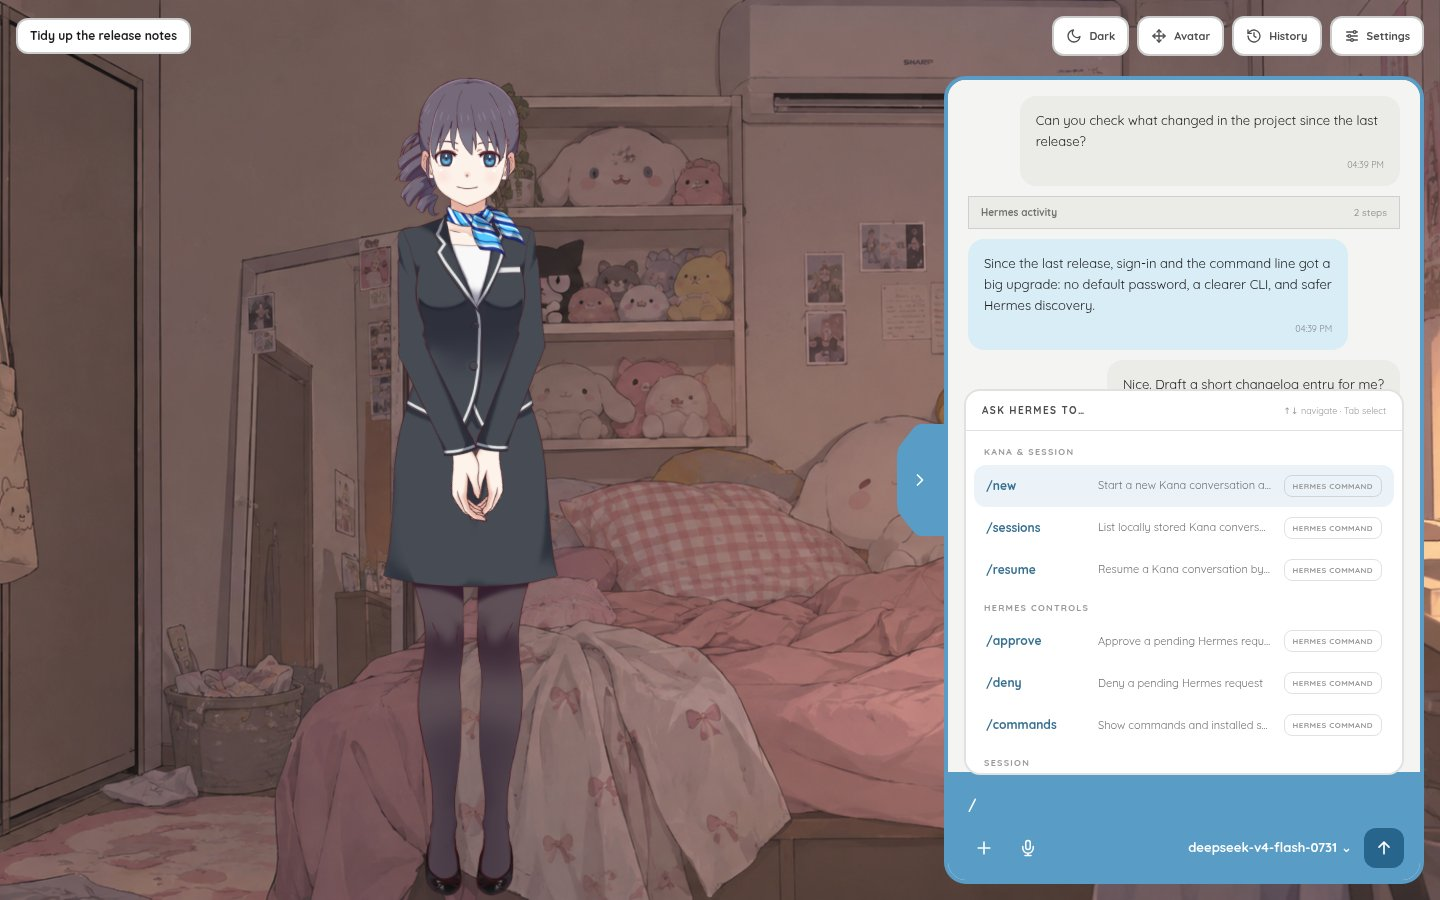
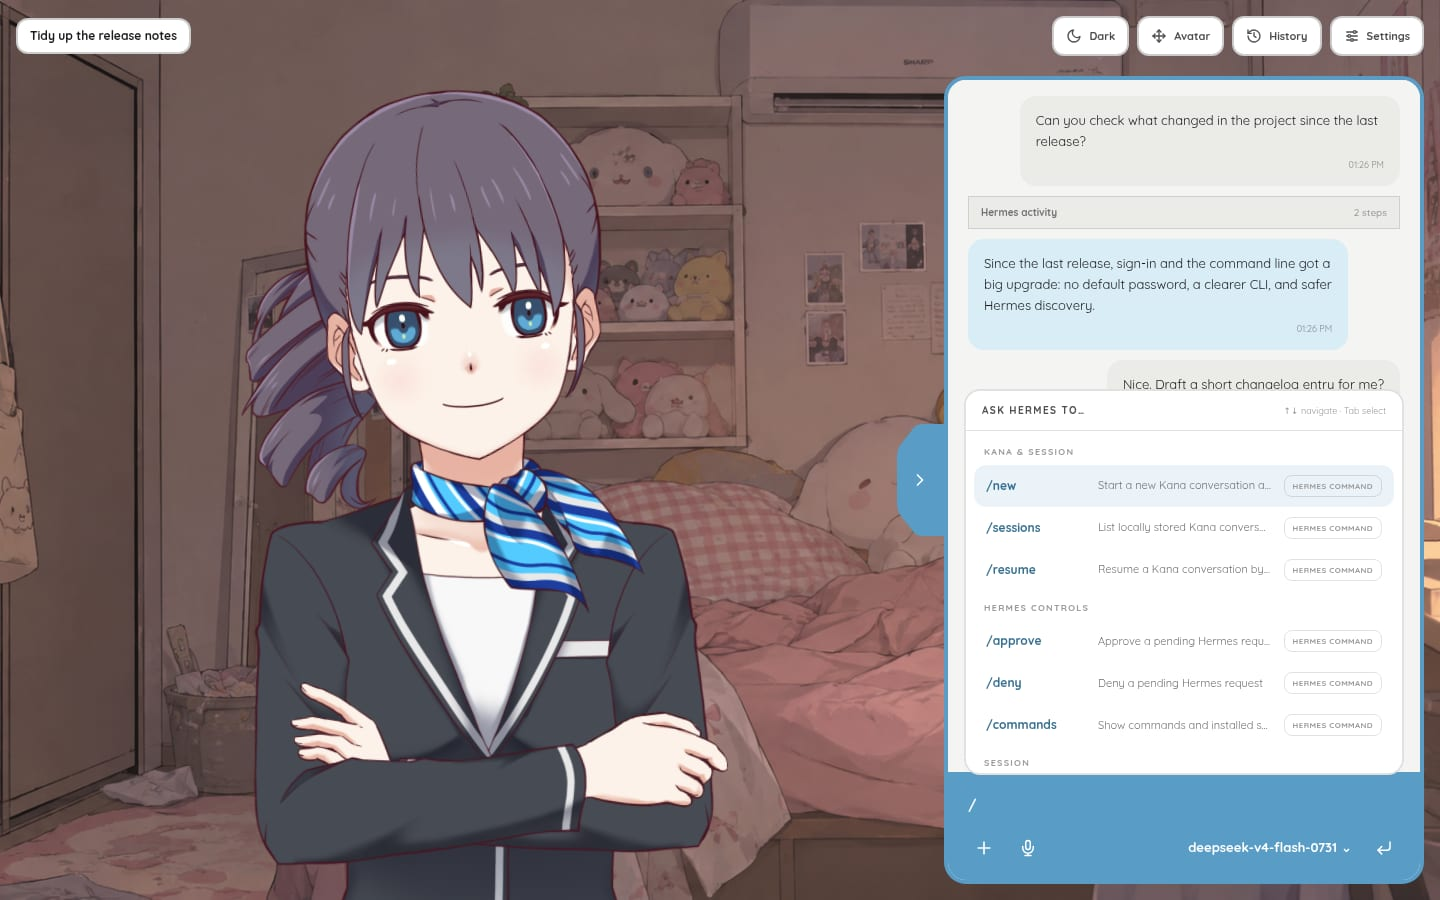
docs: refresh README and screenshots for the chat-first phone layout and model cache

Changed region(s): [[0.1562, 0.0622, 0.5, 1.0], [0.9375, 0.9022, 1.0, 0.9644]]

diff --git a/README.md b/README.md
@@ -87,11 +87,11 @@ Your data (password hash, settings, voice profiles, model cache) lives in
   </tr>
   <tr>
     <td width="50%"><img src=".github/readme/settings-avatar.png" alt="Avatar settings with stage backgrounds and the Live2D avatar library"></td>
-    <td width="50%"><img src=".github/readme/mobile.jpg" alt="Kana on a phone: the workspace and the conversation drawer"></td>
+    <td width="50%"><img src=".github/readme/mobile.jpg" alt="Kana on a phone: the chat fills the screen with Kana in a small call-style tile, next to the conversation list"></td>
   </tr>
   <tr>
     <td align="center"><sub>Avatars, stages, and per-model bindings</sub></td>
-    <td align="center"><sub>Works on phones too</sub></td>
+    <td align="center"><sub>Chat-first on phones, with Kana in a call-style tile</sub></td>
   </tr>
 </table>
 
@@ -104,6 +104,10 @@ Your data (password hash, settings, voice profiles, model cache) lives in
 - History comes from Hermes, so conversations follow you to other browsers.
 - The Hermes activity log shows which tools ran for each reply.
 - Composer with [file attachments, voice dictation, and a model picker](docs/COMPOSER.md).
+  The picker opens with the last Hermes model list at once and refreshes it in
+  the background.
+- On phones and tablets the conversation fills the screen and Kana sits in a
+  small call-style tile framed on the face.
 
 **Hermes controls**
 - The live, categorized `/` command catalog with argument completion, including
@@ -116,7 +120,8 @@ Your data (password hash, settings, voice profiles, model cache) lives in
 - Live2D avatars: the official Haru and Mao samples, any hosted `.model3.json`,
   or a model folder imported into your browser.
 - Emotions, motions, lip sync, and cursor-following gaze.
-- Stage backgrounds, including your own images, plus light and dark themes.
+- Stage backgrounds (an illustrated room, soft patterns, or your own image), plus
+  light and dark themes.
 
 **Voice**
 - Local Japanese speech with Irodori-TTS v4.1 Anime on a CPU engine, with voice cloning from a short, consented sample.
@@ -174,8 +179,8 @@ HERMES_DASHBOARD_SESSION_TOKEN="a-long-random-token" hermes serve --host 127.0.0
 
 ## Voice
 
-Voice is optional. Turn Kana's voice on or off in **Settings → Voice**; replies
-always stay readable as text.
+Voice is optional and off on new installs. Turn Kana's voice on or off in
+**Settings → Voice**; replies always stay readable as text.
 
 - **Local Irodori TTS (default).** [Irodori-TTS v4.1 Anime](https://huggingface.co/phasefield-audio/Irodori-TTS-v4.1-Anime)
   on the [irodori-c](https://github.com/misaalya/irodori-c) engine, on the CPU of the
@@ -223,7 +228,11 @@ Kana server (Next.js)
 
 Hermes events are translated into a stable internal model that drives the
 transcript, activity log, avatar emotion, and audio. Each reply carries Japanese
-speech, a subtitle, and an emotion in one structured Hermes response. More in
+speech, a subtitle, and an emotion in one structured Hermes response. In the
+browser, each workspace keeps its shared state in small per-concern
+[zustand](https://github.com/pmndrs/zustand) stores, and plain service classes
+talk to Hermes, voice, and the avatar, so typing re-renders only the composer.
+More in
 [process boundaries](docs/ADR-001-PROCESS-BOUNDARIES.md) and the
 [security model](docs/SECURITY.md).
 

diff --git a/docs/COMPOSER.md b/docs/COMPOSER.md
@@ -55,9 +55,14 @@ queue and Live2D lip sync; dictation adds no TTS provider or credentials.
 
 ## Model choice
 
-Click the model name to load Hermes's current provider/model catalog. Select the
-provider and model, then apply. Any expensive-model confirmation from Hermes is
-shown before switching. The change applies to the current Hermes conversation,
-not the global configuration. Model changes are blocked while a turn is running.
-Escape closes the chooser and returns focus to its button. The existing settings
-model panel uses the same controller and Hermes model-selection implementation.
+Click the model name to open Hermes's provider/model catalog. The list Kana
+loaded last for this Hermes session appears at once while Kana asks Hermes for
+it again in the background, because Hermes re-reads its configuration and saved
+provider keys on every request; **Refresh list** waits for a full reload.
+Switching models, running `/model`, opening another session, or losing the
+connection drops the saved list. Select the provider and model, then apply. Any
+expensive-model confirmation from Hermes is shown before switching. The change
+applies to the current Hermes conversation, not the global configuration. Model
+changes are blocked while a turn is running. Escape closes the chooser and
+returns focus to its button. The model panel in Settings shares the same saved
+list and Hermes model-selection implementation.
